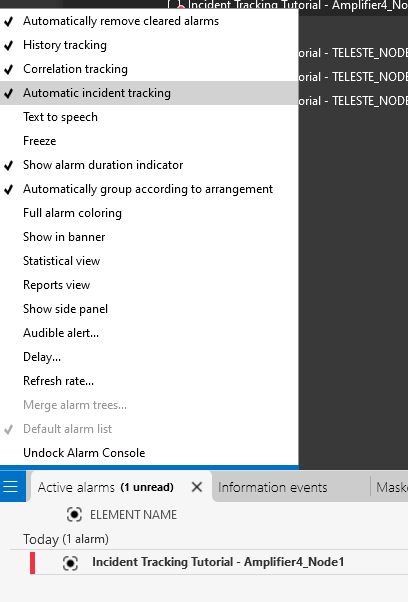
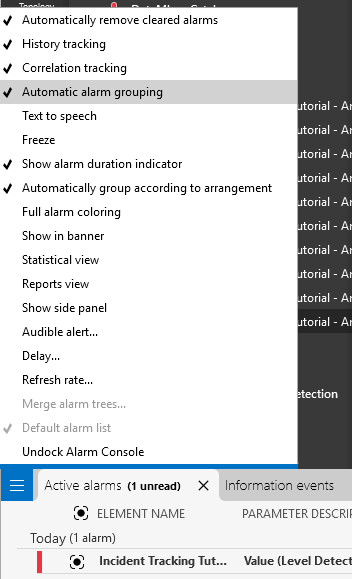
RN 43903: Incident tracking => Alarm grouping

diff --git a/dataminer/Operator_guide/Alarms/Working_with_alarms/Advanced_analytics_features/Automatic_incident_tracking.md b/dataminer/Operator_guide/Alarms/Working_with_alarms/Advanced_analytics_features/Automatic_incident_tracking.md
@@ -2,9 +2,11 @@
 uid: Automatic_incident_tracking
 ---
 
-# Automatic incident tracking
+# Automatic alarm grouping
 
-This DataMiner Analytics feature groups active alarms that are related to the same incident, so that the Alarm Console provides a better overview of the current issues in the system. Unlike Correlation tracking, this can happen completely automatically, without any configuration by the user. DataMiner Analytics automatically detects which alarms share a common trait and groups them as one incident.
+This DataMiner Analytics feature groups active alarms that are related, so that the Alarm Console provides a better overview of the current issues in the system. Unlike Correlation tracking, this can happen completely automatically, without any configuration by the user. DataMiner Analytics automatically detects which alarms share a common trait and groups them together.
+
+Prior to DataMiner 10.4.0 [CU21]/10.5.0 [CU9]/10.5.12<!-- 43903 -->, this feature is called incident tracking.
 
 The following factors, in order, are taken into account for the grouping:
 
@@ -29,7 +31,7 @@ The following factors, in order, are taken into account for the grouping:
 
 - Element information
 
-- Alarm, element, service or view properties, if these have been configured for incident tracking (see [Customizing alarm grouping rules](xref:Customizing_alarm_grouping_rules)).
+- Alarm, element, service or view properties, if these have been configured for alarm grouping (see [Customizing alarm grouping rules](xref:Customizing_alarm_grouping_rules)).
 
 If a single factor is used, it is mentioned in the value of the created alarm group.
 
@@ -37,7 +39,7 @@ The above-mentioned factors are applied in order, meaning that if multiple facto
 
 Sometimes, multiple factors are combined to create an alarm group. For example, if you have a device with two alarms (*Element information* factor), and Relation Learning indicates one of these alarms is related to a different alarm on another element, a group of three alarms is created. In this case, the alarm group's value will indicate it is a "multiple reasons group".
 
-If no suitable match is found, alarms will not be grouped. Also, since only alarms with an alarm focus score are taken into account, automatic incident tracking does not apply to information events, suggestion events or notice messages.
+If no suitable match is found, alarms will not be grouped. Also, since only alarms with an alarm focus score are taken into account, automatic alarm grouping does not apply to information events, suggestion events or notice messages.
 
 The grouping of alarms into incidents is updated in real time whenever appropriate:
 
@@ -49,26 +51,26 @@ The grouping of alarms into incidents is updated in real time whenever appropria
 
 > [!NOTE]
 >
-> - Using automatic incident tracking with history sets is supported; however, keep in mind that this may trigger the creation and immediate clearing of a large number of alarm groups.
+> - Using automatic alarm grouping with history sets is supported; however, keep in mind that this may trigger the creation and immediate clearing of a large number of alarm groups.
 > - When an element is stopped or paused, the alarms associated with that element will not be taken into account when grouping alarms. Also, alarms associated with elements that are stopped or paused will be removed from any existing alarm group.
 > - When an element is swarmed to another Agent, any active anomalies (including alarm groups) that include that element will be cleared. This does not apply for [manually created](#manually-updating-an-alarm-group) alarm groups, but note that prior to DataMiner 10.5.0 [CU8]/10.5.11, alarms from swarmed elements do get removed from manually created alarm groups.<!-- RN 43739 -->
-> - After a [DataMiner Agent is added to a DMS](xref:Adding_a_DataMiner_Agent_to_a_DataMiner_System), incidents created by automatic incident tracking will temporarily be shown incorrectly. This issue will automatically be resolved within 30 minutes, but you can also manually fix this sooner by changing the *Leader DataMiner ID* in the [automatic incident tracking configuration in System Center](xref:Automatic_incident_tracking#automatic-incident-tracking-configuration-in-system-center).
+> - After a [DataMiner Agent is added to a DMS](xref:Adding_a_DataMiner_Agent_to_a_DataMiner_System), automatically generated alarm groups will temporarily be shown incorrectly. This issue will resolve itself within 30 minutes, but you can also manually fix this sooner by changing the *Leader DataMiner ID* in the [automatic alarm grouping configuration in System Center](xref:Automatic_incident_tracking#automatic-alarm-grouping-configuration-in-system-center).
 
 > [!TIP]
 > It is possible to manually customize alarm grouping. See [Customizing alarm grouping rules](xref:Customizing_alarm_grouping_rules).
 
-## Automatic incident tracking configuration in System Center
+## Automatic alarm grouping configuration in System Center
 
-In DataMiner Cube, you can enable this feature in System Center, via *System settings* > *analytics config* > *automatic incident tracking*. From DataMiner 10.2.0/10.2.1 onwards, in new installations and in systems upgrading from DataMiner versions that did not support automatic incident tracking yet, it is enabled by default.
+In DataMiner Cube, you can enable this feature in System Center, via *System settings* > *analytics config* > *automatic alarm grouping* (or prior to DataMiner 10.4.0 [CU21]/10.5.0 [CU9]/10.5.12<!-- 43903 -->: *automatic incident tracking*). From DataMiner 10.2.0/10.2.1 onwards, in new installations and in systems upgrading from DataMiner versions that do not support automatic alarm grouping yet, it is enabled by default.
 
 > [!NOTE]
-> Automatic incident tracking relies on the [alarm focus](xref:ApplyingAlarmFiltersInTheAlarmConsole#filtering-alarms-on-alarm-focus) functionality. Ensure this feature is enabled in System Center, via *System Center* > *System settings* > *analytics config*, to guarantee the creation of alarm groups.
+> Automatic alarm grouping relies on the [alarm focus](xref:ApplyingAlarmFiltersInTheAlarmConsole#filtering-alarms-on-alarm-focus) functionality. Ensure this feature is enabled in System Center, via *System Center* > *System settings* > *analytics config*, to guarantee the creation of alarm groups.
 
 The following settings are available in System Center:
 
 - *Enabled*: Allows you to activate or deactivate this feature.
 
-- *Leader DataMiner ID*: The DMA performing all incident tracking calculations. By default, this is the DMA with the lowest DataMiner ID at the time when alarm grouping is enabled.
+- *Leader DataMiner ID*: The DMA performing all alarm grouping calculations. By default, this is the DMA with the lowest DataMiner ID at the time when alarm grouping is enabled.
 
 - *Maximum group size*: Available from DataMiner 10.1.11/10.2.0 onwards. When an alarm group reaches the maximum size specified in this setting, a new group will be created with all remaining alarms that belong to the same incident. Default value: 1000.
 
@@ -76,12 +78,12 @@ The following settings are available in System Center:
 
 - *Maximum group events rate*: Available from DataMiner 10.2.1/10.2.0 onwards. The maximum number of alarm group events that can be generated per second. This setting is used to avoid possible performance issues during alarm floods. If more events are generated per second than the specified number, the generation of events is slowed down, and a notice alarm is generated. As soon as the number of generated events drops below the threshold again, the notice alarm is cleared and events are again generated as quickly as possible. Default value: 100.
 
-## Activating automatic incident tracking
+## Activating automatic alarm grouping
 
-When this feature has been enabled in System Center as detailed above, it still needs to be activated in the Alarm Console. To do so, in the Alarm Console hamburger menu, select *Automatic incident tracking*.
+When this feature has been enabled in System Center as detailed above, it still needs to be activated in the Alarm Console. To do so, in the Alarm Console hamburger menu, select *Automatic alarm grouping* (or prior to DataMiner 10.4.0 [CU21]/10.5.0 [CU9]/10.5.12<!-- 43903 -->: *Automatic incident tracking*).
 
 > [!NOTE]
-> Automatic incident tracking is only shown for active alarms, not for history alarms. Consequently, from DataMiner 10.2.0 [CU12]/10.3.3 onwards, the *Automatic incident tracking* option is not available for a history tab in the Alarm Console. <!-- RN 35556 -->
+> Automatic alarm grouping is only available for active alarms, not for history alarms.
 
 ## Alarm groups in the Alarm Console
 
@@ -107,20 +109,20 @@ In the Alarm Console, alarm groups are displayed as a special kind of alarm entr
 
 ## Manually updating an alarm group
 
-From DataMiner 10.2.5/10.3.0 onwards, it is possible to manually update an alarm group or "incident". In the Alarm Console, you can add or remove alarms, create an alarm group manually, or rename an alarm group.
+From DataMiner 10.2.5/10.3.0 onwards, it is possible to manually update an alarm group. In the Alarm Console, you can add or remove alarms, create an alarm group manually, or rename an alarm group.
 
-- To **create an alarm group**, right-click an alarm that is not part of an alarm group yet, and select *Add to incident*. In the pop-up window, select to create a new incident and add the alarm to it.
+- To **create an alarm group**, right-click an alarm that is not part of an alarm group yet, and select *Add to alarm group* (or prior to DataMiner 10.4.0 [CU21]/10.5.0 [CU9]/10.5.12<!-- 43903 -->: *Add to incident*). In the pop-up window, select to create a new alarm group (or incident) and add the alarm to it.
 
-- To **add an alarm** to an existing alarm group, right-click an alarm that is not part of an alarm group yet, and select *Add to incident*. In the pop-up window, select to add the alarm to an existing incident.
+- To **add an alarm** to an existing alarm group, right-click an alarm that is not part of an alarm group yet, and select *Add to alarm group* (or prior to DataMiner 10.4.0 [CU21]/10.5.0 [CU9]/10.5.12<!-- 43903 -->: *Add to incident*). In the pop-up window, select to add the alarm to an existing alarm group (or incident).
 
   > [!NOTE]
-  > The following types of alarms cannot be added to an alarm group: correlated alarms, information events, suggestion events, other alarm groups, and clearable alarms. Prior to DataMiner 10.2.9/10.3.0 it is also not possible to add alarms without focus information, such as notices and errors.
+  > The following types of alarms cannot be added to an alarm group: correlated alarms, information events, suggestion events, other alarm groups, and clearable alarms. Prior to DataMiner 10.2.9/10.3.0, it is also not possible to add alarms without focus information, such as notices and errors.
 
-- To **remove an alarm** from an alarm group, right-click an alarm that is part of an incident and select *Remove from incident*.
+- To **remove an alarm** from an alarm group, right-click an alarm that is part of an alarm group and select *Remove from alarm group* (or prior to DataMiner 10.4.0 [CU21]/10.5.0 [CU9]/10.5.12<!-- 43903 -->: *Remove from incident*).
 
 - To **rename an alarm group**, click the pencil icon next to the alarm group name and specify a new name.
 
-- To **move an alarm** from one alarm group to another (supported from DataMiner 10.2.6/10.3.0 onwards), right-click an alarm that is part of an incident and select *Move to another incident*. You will then be able to select a different incident or create a new one to add the alarm to.
+- To **move an alarm** from one alarm group to another (supported from DataMiner 10.2.6/10.3.0 onwards), right-click an alarm that is part of an alarm group and select *Move to another alarm group* (or prior to DataMiner 10.4.0 [CU21]/10.5.0 [CU9]/10.5.12<!-- 43903 -->: *Move to another incident*). You will then be able to select a different alarm group or create a new one to add the alarm to.
 
 - From DataMiner 10.2.7/10.3.0 onwards, you can also modify an alarm group with **drag-and-drop editing**. To do so:
 
@@ -136,13 +138,13 @@ From DataMiner 10.2.5/10.3.0 onwards, it is possible to manually update an alarm
      - Click the *x* next to an alarm in the side panel to remove it from the alarm group.
 
      > [!NOTE]
-     > If you right-click an alarm group and select *Edit incident*, this will open the side panel and activate drag-and-drop editing, so you can edit the alarm group in the same way as described here.
+     > If you right-click an alarm group and select *Edit alarm group* (or prior to DataMiner 10.4.0 [CU21]/10.5.0 [CU9]/10.5.12<!-- 43903 -->: *Edit incident*), this will open the side panel and activate drag-and-drop editing, so you can edit the alarm group in the same way as described here.
 
   1. When you are done, click *Apply*.
 
 > [!NOTE]
 >
 > - When an alarm group has been updated manually, it will no longer be updated automatically.
-> - From DataMiner 10.2.6/10.3.0 onwards, you can manually create an alarm group even when the *Automatic incident tracking* option is not activated in the alarm tab. From DataMiner 10.2.7/10.3.0 onwards, this is even possible when incident tracking is not [enabled in System Center](#automatic-incident-tracking-configuration-in-system-center).
-> - From DataMiner 10.2.6/10.3.0 onwards, the right-click menu of an incident also allows you to take/(force) release ownership of the incident, add a comment, clear the incident in case it was created manually, assign a ticket to the incident, or view a ticket that was assigned to the incident.
+> - From DataMiner 10.2.6/10.3.0 onwards, you can manually create an alarm group even when automatic alarm grouping is not activated in the alarm tab. From DataMiner 10.2.7/10.3.0 onwards, this is even possible when alarm grouping is not [enabled in System Center](#automatic-alarm-grouping-configuration-in-system-center).
+> - From DataMiner 10.2.6/10.3.0 onwards, the right-click menu of an alarm group (or incident) also allows you to take or (force) release ownership of the alarm group, add a comment, clear the alarm group in case it was created manually, assign a ticket to the alarm group, or view a ticket that was assigned to the alarm group.
 > - From DataMiner 10.2.6/10.3.0 onwards, when an alarm group is created or edited manually, it will always receive focus. Automatically created alarm groups receive focus if at least one of the base alarms has focus. See [Filtering alarms on alarm focus](xref:ApplyingAlarmFiltersInTheAlarmConsole#filtering-alarms-on-alarm-focus).

diff --git a/dataminer/Operator_guide/Alarms/Working_with_alarms/Advanced_analytics_features/Tutorials/Incident_Tracking_Configuration_Tutorial.md b/dataminer/Operator_guide/Alarms/Working_with_alarms/Advanced_analytics_features/Tutorials/Incident_Tracking_Configuration_Tutorial.md
@@ -2,11 +2,11 @@
 uid: Incident_Tracking_Configuration_Tutorial
 ---
 
-# Fine-tuning incident tracking in your system
+# Fine-tuning alarm grouping in your system
 
-The incident tracking (a.k.a. alarm grouping) functionality automatically groups alarms related to the same root cause. This automatic grouping is governed by a set of **rules** or **grouping strategies**. In this tutorial, you will learn how to enable and disable certain rules, tweak them, and even add your own custom rules to the alarm grouping engine.
+The alarm grouping (a.k.a. incident tracking) functionality automatically groups alarms related to the same root cause. This automatic grouping is governed by a set of **rules** or **grouping strategies**. In this tutorial, you will learn how to enable and disable certain rules, tweak them, and even add your own custom rules to the alarm grouping engine.
 
-The content and screenshots for this tutorial have been created in DataMiner 10.4.10.
+The content and screenshots for this tutorial have been created in DataMiner 10.5.12.
 
 Estimated duration: 30 minutes.
 
@@ -17,9 +17,9 @@ Estimated duration: 30 minutes.
 
 - DataMiner 10.2.0/10.1.4 or higher with [Storage as a Service (STaaS)](xref:STaaS) (recommended) or a [self-managed Cassandra database](xref:Supported_system_data_storage_architectures).
 
-- Automatic incident tracking is enabled in DataMiner Cube: *System Center* > *System settings* > *analytics config* > *Automatic incident tracking*.
+- Automatic alarm grouping is enabled in DataMiner Cube: *System Center* > *System settings* > *analytics config* > *Automatic alarm grouping*.
 
-- Automatic incident tracking is enabled in the Alarm Console: To check if this is enabled, check if *Automatic incident tracking* is selected in the Alarm Console hamburger menu.
+- Automatic alarm grouping is enabled in the Alarm Console: To check if this is enabled, check if *Automatic alarm grouping* is selected in the Alarm Console hamburger menu.
 
   ![Enable Incident Tracking in the Alarm Console](~/dataminer/images/EnableAlarmGroupingInAlarmConsole.png)
 
@@ -31,7 +31,7 @@ The tutorial consists of the following steps:
 - [Step 2: Find the advanced configuration file](#step-2-find-the-advanced-configuration-file)
 - [Step 3: Explore the default alarm grouping rules](#step-3-explore-the-default-alarm-grouping-rules)
 - [Step 4: Switch off parameter and view grouping](#step-4-switch-off-parameter-and-view-grouping)
-- [Step 5: Add your own rules to the incident tracking engine](#step-5-add-your-own-rules-to-the-incident-tracking-engine)
+- [Step 5: Add your own rules to the alarm grouping engine](#step-5-add-your-own-rules-to-the-alarm-grouping-engine)
 - [Step 6: Group on a custom element property](#step-6-group-on-a-custom-element-property)
 - [Step 7: Clean up your system](#step-7-clean-up-your-system)
 
@@ -48,13 +48,13 @@ The tutorial consists of the following steps:
 
 ## Step 2: Find the advanced configuration file
 
-Automatic incident tracking groups alarms according to a set of rules, which are listed in a configuration file. To locate the file in your system:
+Automatic alarm grouping groups alarms according to a set of rules, which are listed in a configuration file. To locate the file in your system:
 
 1. Go to *Apps* > *System Center* > *System settings* > *analytics config*.
 
-1. Under *Automatic Incident Tracking*, check which ID is mentioned in the box *Leader DataMiner ID*.
+1. Under *Automatic Alarm Grouping*, check which ID is mentioned in the box *Leader DataMiner ID*.
 
-   This is the ID of the DataMiner Agent within your DMS that is in charge of running the incident tracking algorithm for the entire DMS.
+   This is the ID of the DataMiner Agent within your DMS that is in charge of running the alarm grouping algorithm for the entire DMS.
 
 1. On the server running the leader DMA, go to the folder `C:\Skyline DataMiner\Analytics`.
 
@@ -67,7 +67,7 @@ Automatic incident tracking groups alarms according to a set of rules, which are
 
 ## Step 3: Explore the default alarm grouping rules
 
-By default, a new alarm can only be added to an existing alarm group if it occurs within 10 minutes of another alarm that is already in the group. You can customize this 10-minute interval in DataMiner Cube via *System Center* > *System settings* > *analytics config* > *Automatic Incident Tracking* > *Maximum time interval*. Once alarms occur within this interval, the rules in the *configuration.xml* will determine whether or not they are grouped.
+By default, a new alarm can only be added to an existing alarm group if it occurs within 10 minutes of another alarm that is already in the group. You can customize this 10-minute interval in DataMiner Cube via *System Center* > *System settings* > *analytics config* > *Automatic Alarm Grouping* > *Maximum time interval*. Once alarms occur within this interval, the rules in the *configuration.xml* will determine whether or not they are grouped.
 
 1. Open the *configuration.xml* file, and take a look at the different rules.
 
@@ -108,7 +108,7 @@ By default, a new alarm can only be added to an existing alarm group if it occur
 
    - The *GenericProperties* rule, which allows you to define custom properties.
 
-     You will find out more about this rule in [step 5](#step-5-add-your-own-rules-to-the-incident-tracking-engine).
+     You will find out more about this rule in [step 5](#step-5-add-your-own-rules-to-the-alarm-grouping-engine).
 
 1. Test the *ParameterProperty* rule:
 
@@ -129,7 +129,7 @@ By default, a new alarm can only be added to an existing alarm group if it occur
       ![Grouping on parameter](~/dataminer/images/parameterGrouping.png)
 
       > [!NOTE]
-      > If no alarm group is formed, check whether *Automatic incident tracking* is enabled in the Alarm Console and whether you have triggered the alarm for the correct element. Not all of the elements added for this tutorial use the same protocol, so if you used a different element than mentioned above, the rule may not be triggered.
+      > If no alarm group is formed, check whether *Automatic alarm grouping* is enabled in the Alarm Console and whether you have triggered the alarm for the correct element. Not all of the elements added for this tutorial use the same protocol, so if you used a different element than mentioned above, the rule may not be triggered.
 
    1. In both elements, click the *Toggle Alarm* button again to clear the alarms again.
 
@@ -160,7 +160,7 @@ To make it easier to see the effect of the next steps, temporarily switch off pa
   1. Save the file.
   1. Restart the *SLAnalytics.exe* process on the leader Agent.
 
-## Step 5: Add your own rules to the incident tracking engine
+## Step 5: Add your own rules to the alarm grouping engine
 
 When you deployed the Catalog package earlier, elements were added in a *Nodes* and an *Amplifiers* view. This is inspired by EPM setups where a node sends out a signal to a group of amplifiers which in turn amplify and forward the signal to households. In this step, you will add a rule to automatically group alarms on amplifiers under the same node.
 
@@ -300,7 +300,7 @@ It is not possible to use the *ParentNode* alarm property from the previous step
    > [!IMPORTANT]
    > Use the following email format to send us your screenshot:
    >
-   > - Subject: *Tutorial - Fine-tune incident tracking in your system*
+   > - Subject: *Tutorial - Fine-tune alarm grouping in your system*
    > - To: [ai@skyline.be](mailto:ai@skyline.be)
    > - Body:
    >   - *Dojo account*: Clearly mention the email address you use to sign into your Dojo account, especially if you are using a different email address to send this email.

diff --git a/dataminer/Operator_guide/Alarms/Working_with_alarms/Advanced_analytics_features/Customizing_alarm_grouping_rules.md b/dataminer/Operator_guide/Alarms/Working_with_alarms/Advanced_analytics_features/Customizing_alarm_grouping_rules.md
@@ -4,9 +4,9 @@ uid: Customizing_alarm_grouping_rules
 
 # Customizing alarm grouping rules
 
-Automatic incident tracking strives to maximize the amount of information used for grouping alarms. By default, all [available source of information](xref:Automatic_incident_tracking) are taken into account for incident tracking. However, in some cases, it can be beneficial to tweak this configuration by disabling specific rules for grouping or defining custom ones.
+DataMiner Analytics strives to maximize the amount of information used for grouping alarms. By default, all [available source of information](xref:Automatic_incident_tracking) are taken into account for alarm grouping. However, in some cases, it can be beneficial to tweak this configuration by disabling specific rules for grouping or defining custom ones.
 
-You can do so by modifying the *configuration.xml* file, located in the `C:\Skyline DataMiner\analytics\` folder of the leader Agent. If you are using a DataMiner System that consists of multiple DMAs, it is important that you modify the file on the server hosting that leader Agent. To find out which DMA is the leader Agent, see [Automatic incident tracking configuration in System Center](xref:Automatic_incident_tracking#automatic-incident-tracking-configuration-in-system-center).
+You can do so by modifying the *configuration.xml* file, located in the `C:\Skyline DataMiner\analytics\` folder of the leader Agent. If you are using a DataMiner System that consists of multiple DMAs, it is important that you modify the file on the server hosting that leader Agent. To find out which DMA is the leader Agent, see [Automatic alarm grouping configuration in System Center](xref:Automatic_incident_tracking#automatic-alarm-grouping-configuration-in-system-center).
 
 Below you can find information about the [basic syntax](#basic-syntax), as well as detailed procedures for some of the rules. Customizing the other rules can be done in a very similar way to the described procedures.
 
@@ -48,12 +48,12 @@ Each property is identified by an XML block in the *configuration.xml* file. For
     </item>
   ```
 
-  In the example above, automatic incident tracking is configured to group alarms under the same view, but only if the proportion of elements in alarm among all elements under that view exceeds the configured threshold of 50%.
+  In the example above, alarms under the same view are configured to be grouped, but only if the proportion of elements in alarm among all elements under that view exceeds the configured threshold of 50%.
 
   Generally, a lower threshold results in quicker but less reliable alarm group triggering, while a higher threshold results in slower triggering with higher confidence.
 
 > [!TIP]
-> For an introduction to the different properties and how you can use them, see [Tutorial: Fine-tune incident tracking for your system](xref:Incident_Tracking_Configuration_Tutorial). Below you can also find some detailed procedures for specific properties.
+> For an introduction to the different properties and how you can use them, see [Tutorial: Fine-tune alarm grouping for your system](xref:Incident_Tracking_Configuration_Tutorial). Below you can also find some detailed procedures for specific properties.
 
 ## Enabling or disabling service-based alarm grouping
 
@@ -154,7 +154,7 @@ The following basic configuration is needed in Cube:
 
 In addition, the following configuration is needed in the *configuration.xml* file:
 
-- For each custom-defined alarm, element, view, or service property, add an \<item> tag within the \<Properties> tag of the Automatic Incident Tracking XML configuration group as shown below. Make sure the \<Name> tag is set to *GenericProperties*, as using any other name will result in a reading error.
+- For each custom-defined alarm, element, view, or service property, add an \<item> tag within the \<Properties> tag of the Automatic Alarm Grouping XML configuration group as shown below. Make sure the \<Name> tag is set to *GenericProperties*, as using any other name will result in a reading error.
 
   ```xml
   <item type="skyline::dataminer::analytics::workers::configuration::XMLConfigurationProperty&lt;class std::vector&lt;class std::shared_ptr&lt;class skyline::dataminer::analytics::workers::configuration:: IGenericPropertyVisitorConfiguration&gt;,class std::allocator&lt;class std::shared_ptr&lt;class skyline::dataminer::analytics::workers::configuration:: IGenericPropertyVisitorConfiguration&gt; &gt; &gt; &gt;">
@@ -213,7 +213,7 @@ After editing and saving the configuration file, **restart the SLAnalytics proce
 
 If you do not see the expected changes in grouping behavior after you have customized the *configuration.xml* file:
 
-- Check whether the edited file is located on the Agent specified in the configuration under *Leader DataMiner ID*. (See [Automatic incident tracking configuration in System Center](xref:Automatic_incident_tracking#automatic-incident-tracking-configuration-in-system-center).
+- Check whether the edited file is located on the Agent specified in the configuration under *Leader DataMiner ID*. (See [Automatic alarm grouping configuration in System Center](xref:Automatic_incident_tracking#automatic-alarm-grouping-configuration-in-system-center).
 
 - Check whether the SLAnalytics process was restarted on that Agent.
 

diff --git a/tutorials/Analytics_Tutorials.md b/tutorials/Analytics_Tutorials.md
@@ -5,7 +5,7 @@ keywords: augmented operations tutorials
 
 # DataMiner Analytics tutorials
 
-DataMiner Analytics, also known as [DataMiner Augmented Operations](xref:Stack_Augmented_Operations), leverages state-of-the-art big data and artificial intelligence technology for several features, including [behavioral anomaly detection](xref:Behavioral_anomaly_detection), [automatic incident tracking](xref:Automatic_incident_tracking), and more.
+DataMiner Analytics, also known as [DataMiner Augmented Operations](xref:Stack_Augmented_Operations), leverages state-of-the-art big data and artificial intelligence technology for several features, including [behavioral anomaly detection](xref:Behavioral_anomaly_detection), [automatic alarm grouping](xref:Automatic_incident_tracking), and more.
 
 ## Tutorials
 
@@ -18,5 +18,5 @@ DataMiner Analytics, also known as [DataMiner Augmented Operations](xref:Stack_A
 | [Working with trend patterns in DataMiner Cube](xref:Pattern_Matching_Trend_Tutorial) | Use DataMiner's pattern matching feature to add context information to trend graphs. |
 | [Creating an anomaly overview dashboard](xref:Creating_Anomaly_Overview_Dashboard) | Create a dashboard that shows an overview of behavioral change event data. |
 | [Using trend patterns to detect backup failures](xref:trend_patterns_backup_failures)| Create a dashboard that allows you to check whether recent backups have occurred, based on trend patterns. |
-| [Fine-tuning incident tracking in your system](xref:Incident_Tracking_Configuration_Tutorial)| Learn how to enable, disable, tweak, and add rules for alarm grouping. |
+| [Fine-tuning alarm grouping in your system](xref:Incident_Tracking_Configuration_Tutorial)| Learn how to enable, disable, tweak, and add rules for alarm grouping. |
 | [Working with relational anomaly detection](xref:Relational_Anomaly_Detection_Tutorial) | Use DataMiner's relational anomaly detection feature to monitor the power outputs of all amplifiers in a DAB transmitter to ensure they remain in sync. |

diff --git a/dataminer/Operator_guide/Alarms/Working_with_alarms/Working_with_the_Alarm_Console/Applying_alarm_filters_in_the_Alarm_Console.md b/dataminer/Operator_guide/Alarms/Working_with_alarms/Working_with_the_Alarm_Console/Applying_alarm_filters_in_the_Alarm_Console.md
@@ -185,7 +185,7 @@ Please note the following regarding the alarm focus feature:
 - A model is created in DataMiner for every parameter that has had an alarm in the last two weeks, up to a limit of 100&thinsp;000 models. This upper limit is rarely ever reached, but when it is, the notice "Alarm Focus has reached its maximum cache size" is displayed in the Alarm Console, and all alarms on parameters that have no model yet will be marked as unlikely. This notice will not influence any other part of the system and can be safely ignored. However, if you see this notice regularly, it can be a sign that your parameters are not spread optimally over your DataMiner System, or that one of your protocols is generating alarms on many different rows in a table.
 
 > [!NOTE]
-> You can enable or disable the alarm focus feature via *System Center* > *System settings* > *analytics config*. However, note that if you disable alarm focus, [automatic incident tracking](xref:Automatic_incident_tracking) is automatically also disabled, and only [manual incident tracking](xref:Automatic_incident_tracking#manually-updating-an-alarm-group) can still be used. <!-- RN 33348 -->
+> You can enable or disable the alarm focus feature via *System Center* > *System settings* > *analytics config*. However, note that if you disable alarm focus, [automatic alarm grouping](xref:Automatic_incident_tracking) is automatically also disabled, and only [manual alarm grouping](xref:Automatic_incident_tracking#manually-updating-an-alarm-group) can still be used. <!-- RN 33348 -->
 
 ## Applying an alarm filter by dragging an item onto the Alarm Console
 

diff --git a/dataminer/Reference/glossary/glossary_a_to_l.md b/dataminer/Reference/glossary/glossary_a_to_l.md
@@ -22,7 +22,7 @@ uid: glossary_a_to_l
 | Alarm Console | Pane in DataMiner Cube that allows you to view and manage alarms and information events.<br>See [Working with the Alarm Console](xref:Working_with_the_Alarm_Console). |
 | Alarm focus | DataMiner functionality that analyzes the short-term history and current behavior of incoming alarms in order to indicate which alarms are unexpected.<br>See [Filtering alarms on alarm focus](xref:ApplyingAlarmFiltersInTheAlarmConsole#filtering-alarms-on-alarm-focus). |
 | Alarm hysteresis | Type of hysteresis where the moment when the severity of an alarm increases is delayed.<br>See [Alarm hysteresis](xref:Alarm_hysteresis). |
-| Alarm group | A group of alarms created by (Automatic) Incident Tracking.<br>See [Automatic Incident Tracking](xref:Automatic_incident_tracking). |
+| Alarm group | A group of alarms created by (Automatic) Alarm Grouping.<br>See [Automatic Alarm Grouping](xref:Automatic_incident_tracking). |
 | Alarm priority | Relative importance of an alarm type within the different DataMiner applications.<br>See [Alarm type priority](xref:Alarm_types#alarm-type-priority). |
 | Alarm storm | Situation where the system is flooded by a large number of alarms.<br>See [Alarm storm protection](xref:Alarm_storm_protection). |
 | Alarm tab | Tab in the Alarm Console in DataMiner Cube or the DataMiner Monitoring app. |

diff --git a/dataminer/About_DataMiner/Stack_Functions/Stack_Augmented_Operations.md b/dataminer/About_DataMiner/Stack_Functions/Stack_Augmented_Operations.md
@@ -100,14 +100,14 @@ An anomaly significance scoring mechanism augments the change point detection so
 
 **Autonomous grouping of alarms linked to the same root cause.**
 
-The Automatic Incident Tracking feature autonomously learns about system behavior and leverages the rich context of alarms and relational information available in a DataMiner System to automatically correlate alarms belonging to a specific incident. No manual pre-analysis or time-consuming setup and configuration of correlation logic is required.
+The Automatic Alarm Grouping feature autonomously learns about system behavior and leverages the rich context of alarms and relational information available in a DataMiner System to automatically correlate alarms belonging to a specific incident. No manual pre-analysis or time-consuming setup and configuration of correlation logic is required.
 
 > [!TIP]
 > For more information:
 >
 > - Course: [Incident Tracking](https://community.dataminer.services/courses/dataminer-augmented-operations/lessons/incident-tracking/)
 > - Video: [Focus on the Root of Issues with Incident Analysis](https://www.youtube.com/watch?v=m6ITgtTFz1E) ![Video](~/dataminer/images/video_Duo.png)
-> - [Automatic Incident Tracking](xref:Automatic_incident_tracking)
+> - [Automatic Alarm Grouping](xref:Automatic_incident_tracking)
 
 ## Focus Alarms
 

diff --git a/dataminer/Operator_guide/Alarms/Working_with_alarms/Working_with_the_Alarm_Console/Alarm_Console_Settings.md b/dataminer/Operator_guide/Alarms/Working_with_alarms/Working_with_the_Alarm_Console/Alarm_Console_Settings.md
@@ -53,9 +53,11 @@ Select this option to hide raw alarms of a correlated alarm. To show the raw ala
 >   - If neither base nor correlated alarm match the filter, neither are displayed.
 > - If a quick filter is applied with the filter box in the lower-right corner, the behavior is similar, except in case both base alarm and correlated alarm match the filter, as then both alarms will be displayed.
 
-## Automatic incident tracking
+## Automatic alarm grouping
 
-This option is only available in a DMS using Cassandra, and only if automatic incident tracking is enabled in System Center. It is also only available for active alarms, not for history alarms. For more information, see [Automatic incident tracking](xref:Automatic_incident_tracking).
+This option is only available if automatic alarm grouping is enabled in System Center. It is also only available for active alarms, not for history alarms. For more information, see [Automatic alarm grouping](xref:Automatic_incident_tracking).
+
+Note that prior to DataMiner 10.4.0 [CU21]/10.5.0 [CU9]/10.5.12<!-- 43903 -->, this option is called *Automatic incident tracking* instead.
 
 ## Text to speech
 

diff --git a/dataminer/Administrator_guide/Databases/Configuring_storage_per_DMA/Configuring_storage_per_DMA.md b/dataminer/Administrator_guide/Databases/Configuring_storage_per_DMA/Configuring_storage_per_DMA.md
@@ -16,7 +16,7 @@ If you are still using an older setup with storage per DMA instead of the recomm
 
 By default, when you install a new self-managed DataMiner System, a Cassandra database per DMA is configured. If you have an existing legacy DataMiner System with SQL database, [migrating to Cassandra](xref:Migrating_the_general_database_to_Cassandra) will give you access to additional DataMiner features (depending on your DataMiner version), including:
 
-- Advanced Analytics features such as alarm focus, behavioral anomaly detection, proactive cap detection, automatic incident tracking, and pattern matching
+- Advanced Analytics features such as alarm focus, behavioral anomaly detection, proactive cap detection, automatic alarm grouping, and pattern matching
 - Trend predictions
 - DataMiner Service & Resource Management
 - The Generic Query Interface in DataMiner Dashboards

diff --git a/develop/devguide/Connector/SwarmingPrepare.md b/develop/devguide/Connector/SwarmingPrepare.md
@@ -108,7 +108,7 @@ When communicating with the server, make sure to always pass along the `TreeID`:
 | `new GenerateAlarmMessage(..., rootalarmid, ...)` | `new GenerateAlarmMessage(..., treeToUpdate, ...)` |
 | `new GetAlarmTreeDetailsMessage(dmaid, rootAlarmID)` | `new GetAlarmTreeDetailsMessage(AlarmTreeID)` |
 | `GetAlarmDetailsMessage` | Use `.Trees`. |
-| `new CorrelateNowRequest(...)` | Use the [incident tracking](xref:Automatic_incident_tracking) functionality instead. |
+| `new CorrelateNowRequest(...)` | Use the [alarm grouping](xref:Automatic_incident_tracking) functionality instead. |
 | `GetCorrelationBaseAlarmDetailsMessage` | Use `AlarmEventID` instead of `AlarmID`. |
 | `GetAlarmLinksMessage` | Do not use. |
 

diff --git a/dataminer/Reference/Metrics/dataminer_metrics.md b/dataminer/Reference/Metrics/dataminer_metrics.md
@@ -50,7 +50,7 @@ All specifications are provided based on the assumption that DMAs are running on
 - [Alarm benchmarks](xref:alarm_benchmarks)
 - [Alarm benchmarks (Cassandra Cluster)](xref:alarm_benchmarks_cassandra_cluster)
 - [Alarm focus benchmarks](xref:alarm_focus_benchmarks)
-- [Automatic incident tracking benchmarks](xref:automatic_incident_tracking_benchmarks)
+- [Automatic alarm grouping benchmarks](xref:automatic_incident_tracking_benchmarks)
 - [Automation benchmarks](xref:automation_benchmarks)
 - [Behavioral anomaly detection benchmarks](xref:behavioral_anomaly_detection_benchmarks)
 - [Cassandra (cluster) write performance benchmarks](xref:cassandra_cluster_write_performance_benchmarks)

diff --git a/dataminer/Operator_guide/Alarms/Working_with_alarms/Advanced_analytics_features_in_the_Alarm_Console.md b/dataminer/Operator_guide/Alarms/Working_with_alarms/Advanced_analytics_features_in_the_Alarm_Console.md
@@ -13,7 +13,7 @@ The following advanced analytics features **assist at identifying incidents in t
 
 - [Alarm focus](xref:ApplyingAlarmFiltersInTheAlarmConsole#filtering-alarms-on-alarm-focus).
 
-- [Automatic incident tracking](xref:Automatic_incident_tracking).
+- [Automatic alarm grouping](xref:Automatic_incident_tracking).
 
 The following advanced analytics features **generate suggestion events** that inform users about new insights on the data behavior of a trended parameter. These suggestion events are displayed in the *Suggestion events* tab of the Alarm Console. See [Changing the alarm console layout](xref:ChangingTheAlarmConsoleLayout).
 
